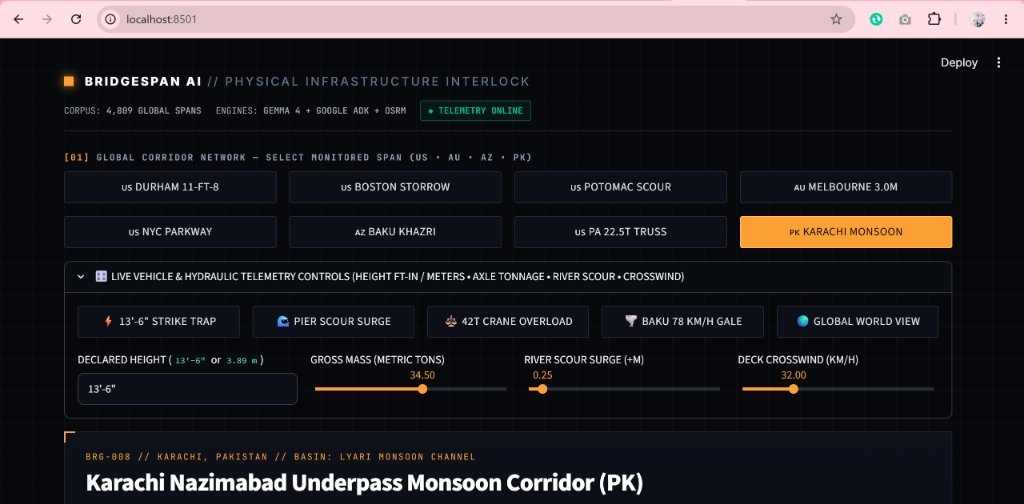
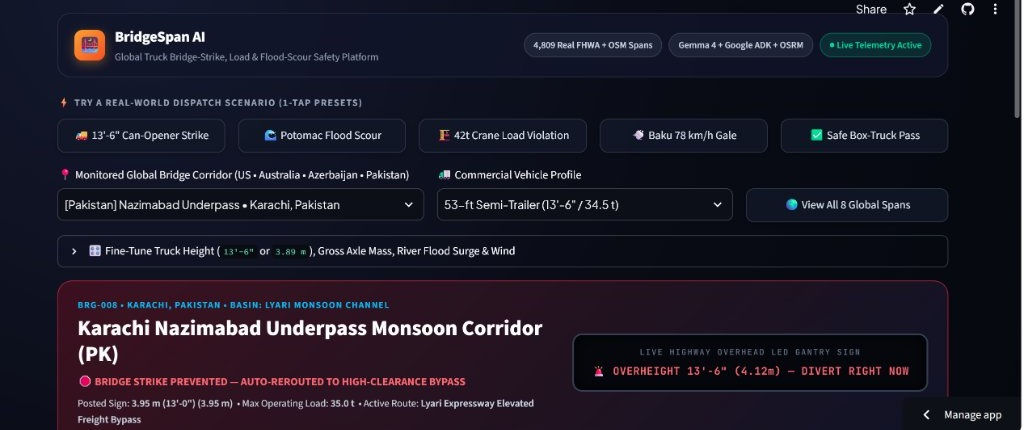
Update live console screenshot to new UI and polish metric sign label

diff --git a/app.py b/app.py
@@ -518,7 +518,11 @@ human_status = {
     "CLEAR_PRIMARY_ROUTE": "✅ ALL 4 SAFETY INTERLOCKS CLEAR — PROCEED ON PRIMARY ROUTE",
 }.get(advisory.dispatch_status, advisory.dispatch_status)
 
-clr_badge = f"{spec['posted_sign_label']} ({spec['posted_clearance_m']:.2f} m)" if spec["posted_clearance_m"] > 0 else "Unrestricted Open Deck"
+clr_badge = (
+    spec["posted_sign_label"]
+    if "m" in spec["posted_sign_label"].lower()
+    else f"{spec['posted_sign_label']} ({spec['posted_clearance_m']:.2f} m)"
+) if spec["posted_clearance_m"] > 0 else "Unrestricted Open Deck"
 
 render_html(f"""
 <div class="bs-verdict-wrap {verdict_cls}">
@@ -819,7 +823,7 @@ with col_ops:
 render_html('<div class="bs-section-label" style="margin-top:14px;">📊 Explore Real Public Bridge Inventory (4,809 Global Structures)</div>')
 tab_osm, tab_nbi = st.tabs([
     "🌍 Global OpenStreetMap Low-Clearance Spans (309)",
-    "🇺🇸 2024 US DOT FHWA National Bridge Inventory (4,500)",
+    "🌉 2024 US DOT FHWA National Bridge Inventory (4,500)",
 ])
 
 with tab_osm:
